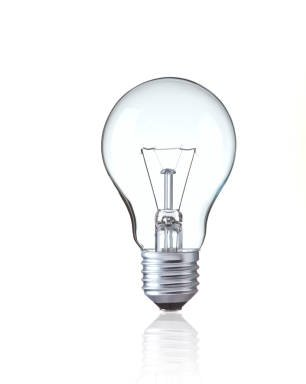
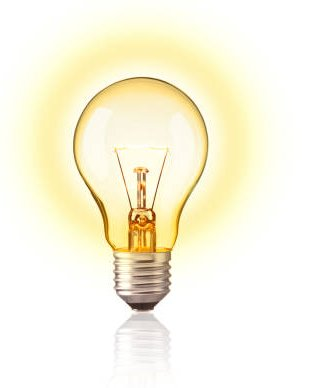
done

diff --git a/js/app.js b/js/app.js
@@ -1,56 +1,18 @@
-// const onButton  = document.getElementById('btnOn')
-// const offButton = document.getElementById('btnOff')
 
-// let offButton
-
-
-
-// document.querySelector('btn-off').addEventListener('click', 
-//     function() {
-//         document.querySelector('.btn-off').style.background = 'red'
-//         document.querySelector('.btn-on').style.background = 'green'
-//         document.querySelector('.lightbulb img').src = 'image/lighton.jpg'
-
-// })
-
-// document.querySelector('btn-on').addEventListener('click', 
-//     function() {
-//         document.querySelector('.btn-on').style.background = 'red'
-//         document.querySelector('.btn-on').style.background = 'green'
-//         document.querySelector('.lightbulb img').src = 'image/lighton.jpg'
-
-// })
+document.querySelector('.btn-off').addEventListener('click', 
+    function() {
+            document.querySelector('.btn-off').style.background = 'red'
+            document.querySelector('.btn-on').style.background = 'green'
+            document.querySelector('.lightbulb img').src = 'image/lightoff.jpg'
+    
+    })
+    
+    document.querySelector('.btn-on').addEventListener('click', 
+        function() {
+                document.querySelector('.btn-on').style.background = '#00ff00'
+                document.querySelector('.btn-on').style.background = 'green'
+                document.querySelector('.lightbulb img').src = 'image/lighton.jpg'
+        
+        })
 
 
-
-
-
-
-
-
-
-
-
-
-
-
-
-
-
-
-
-
-// let lightIsOn = true
-
-// if (lightIsOn) {
-//     lightIsOn = !lightIsOn
-// } else {
-//     lightIsOn = true 
-// }
-
-// console.log(`The light is on?:`, lightIsOn)
-
-
-// lightIsOn ? lightIsOn = !lightIsOn : lightIsOn = true
-
-// console.log('The is on:', lightIsOn);

diff --git a/index.html b/index.html
@@ -13,7 +13,8 @@
             <button class="btn-on text-center" id="btnOn">ON</button>
             <button class="btn-off text-center" id="btnOff">Off</button>
             <div class="lightbulb">
-                <img src="image/lighton.jpg" alt="">
+                <img src="image/lightoff.jpg" alt="">
+                
             </div>
         </div>
     </header>

diff --git a/css/style.css b/css/style.css
@@ -6,11 +6,11 @@ body{
 }
 
 #btnOn {
-    background-color: red;
+    background-color: green;
 }
 
 #btnOff{
-    background-color: green;
+    background-color: red;
 }
 
 button {
